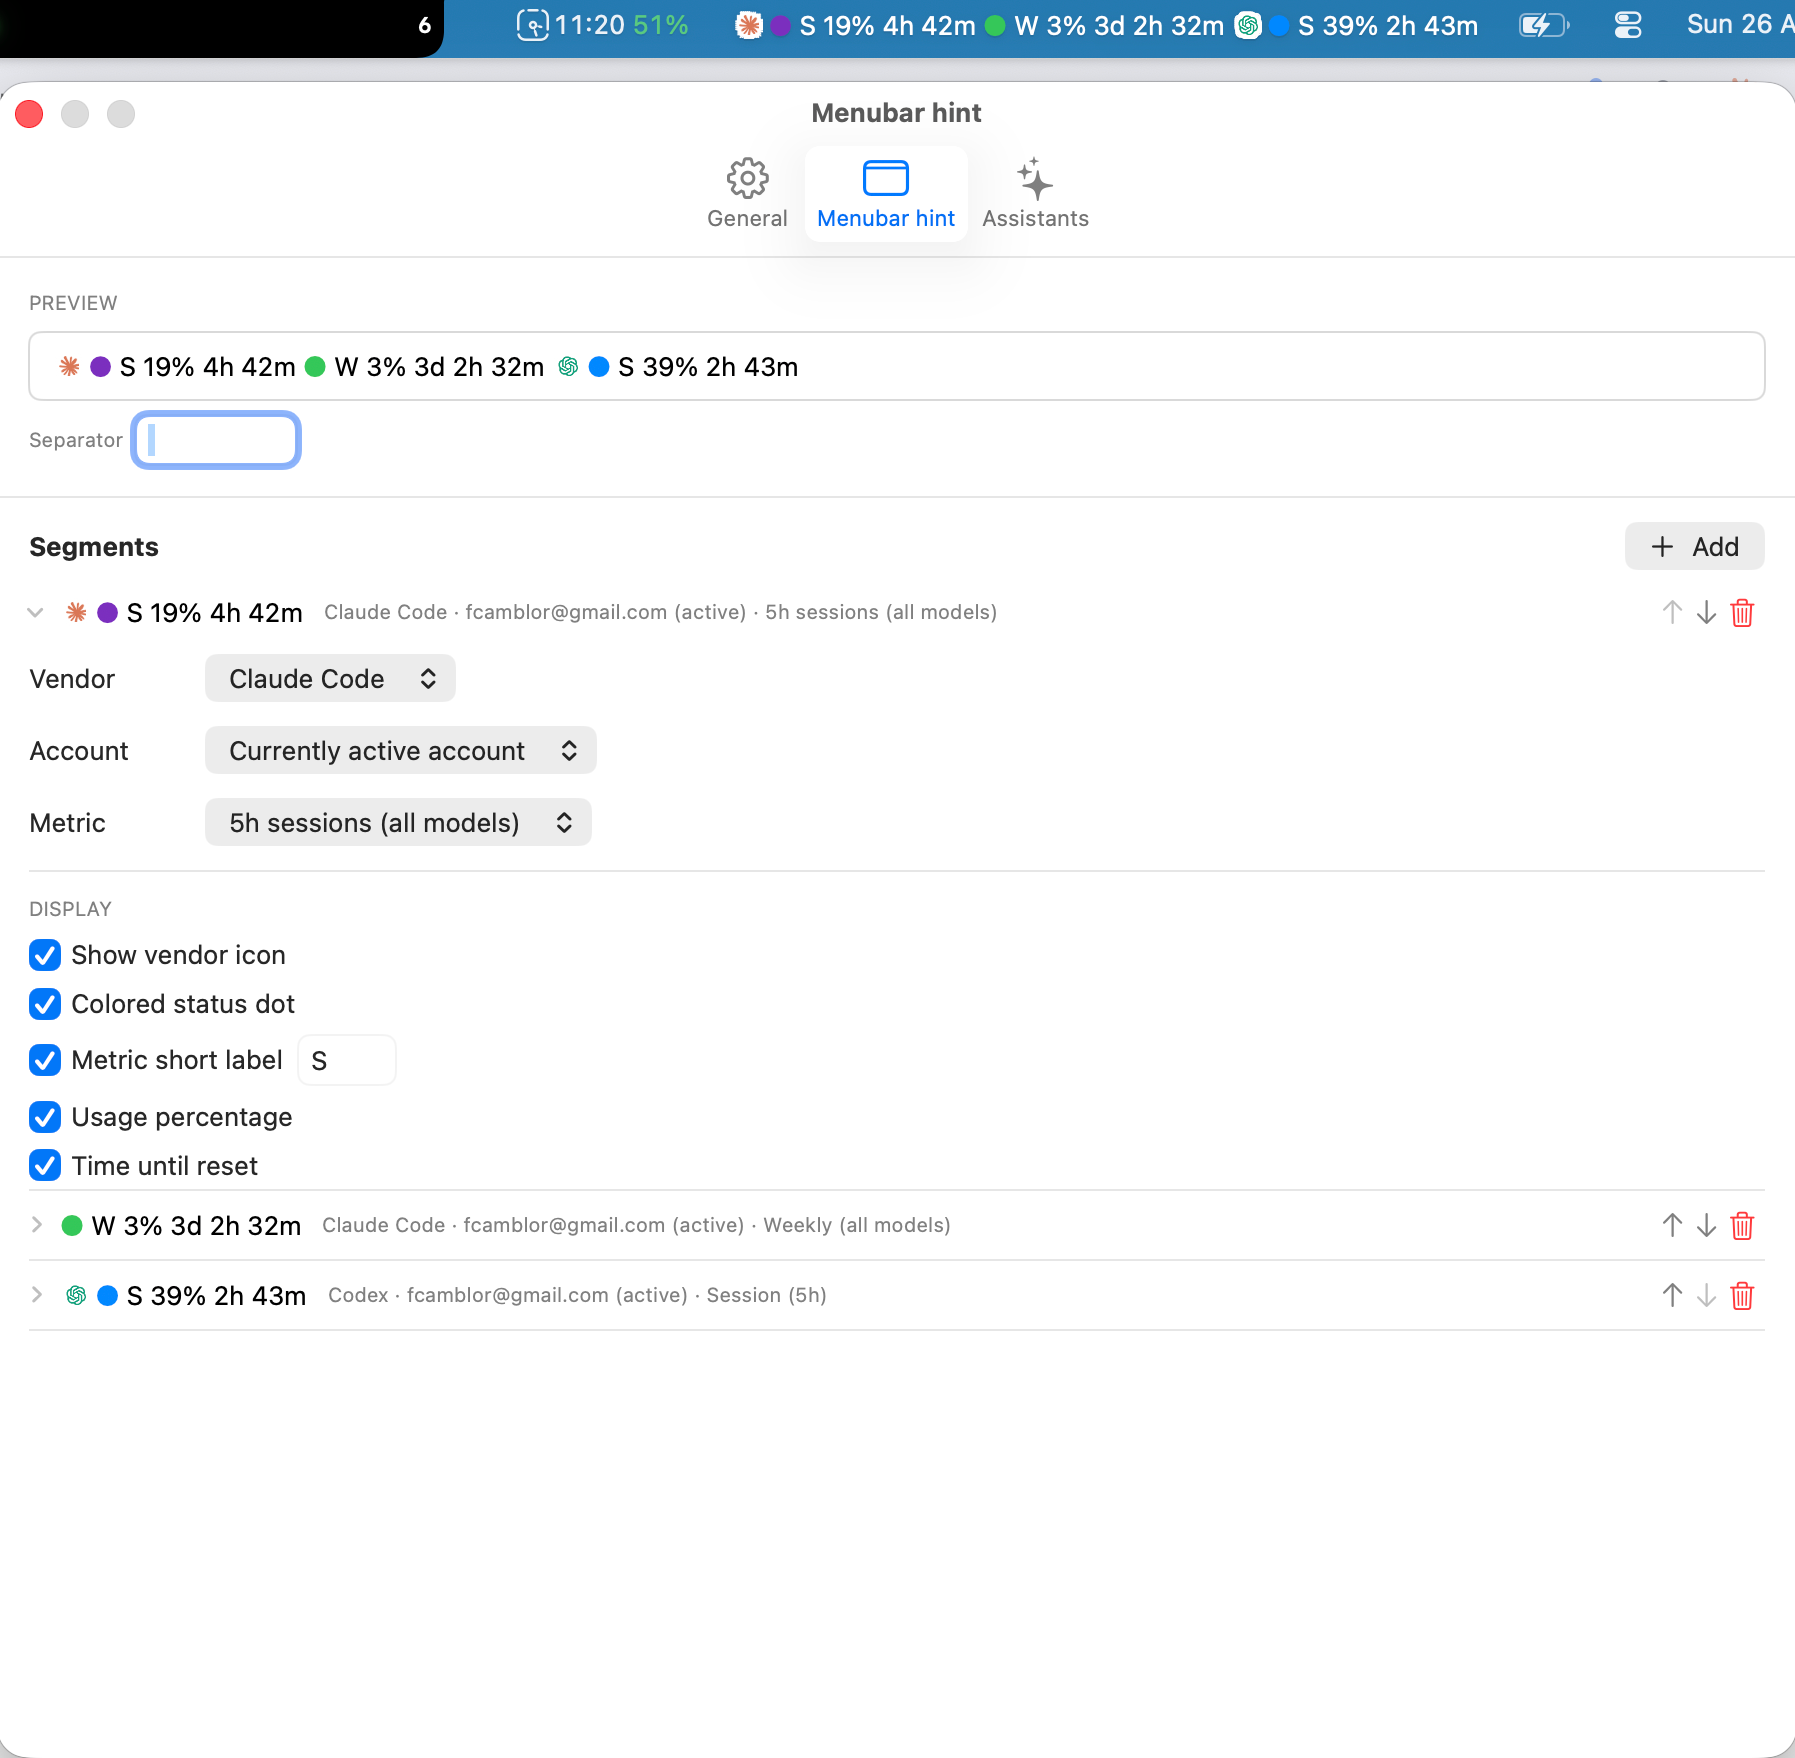
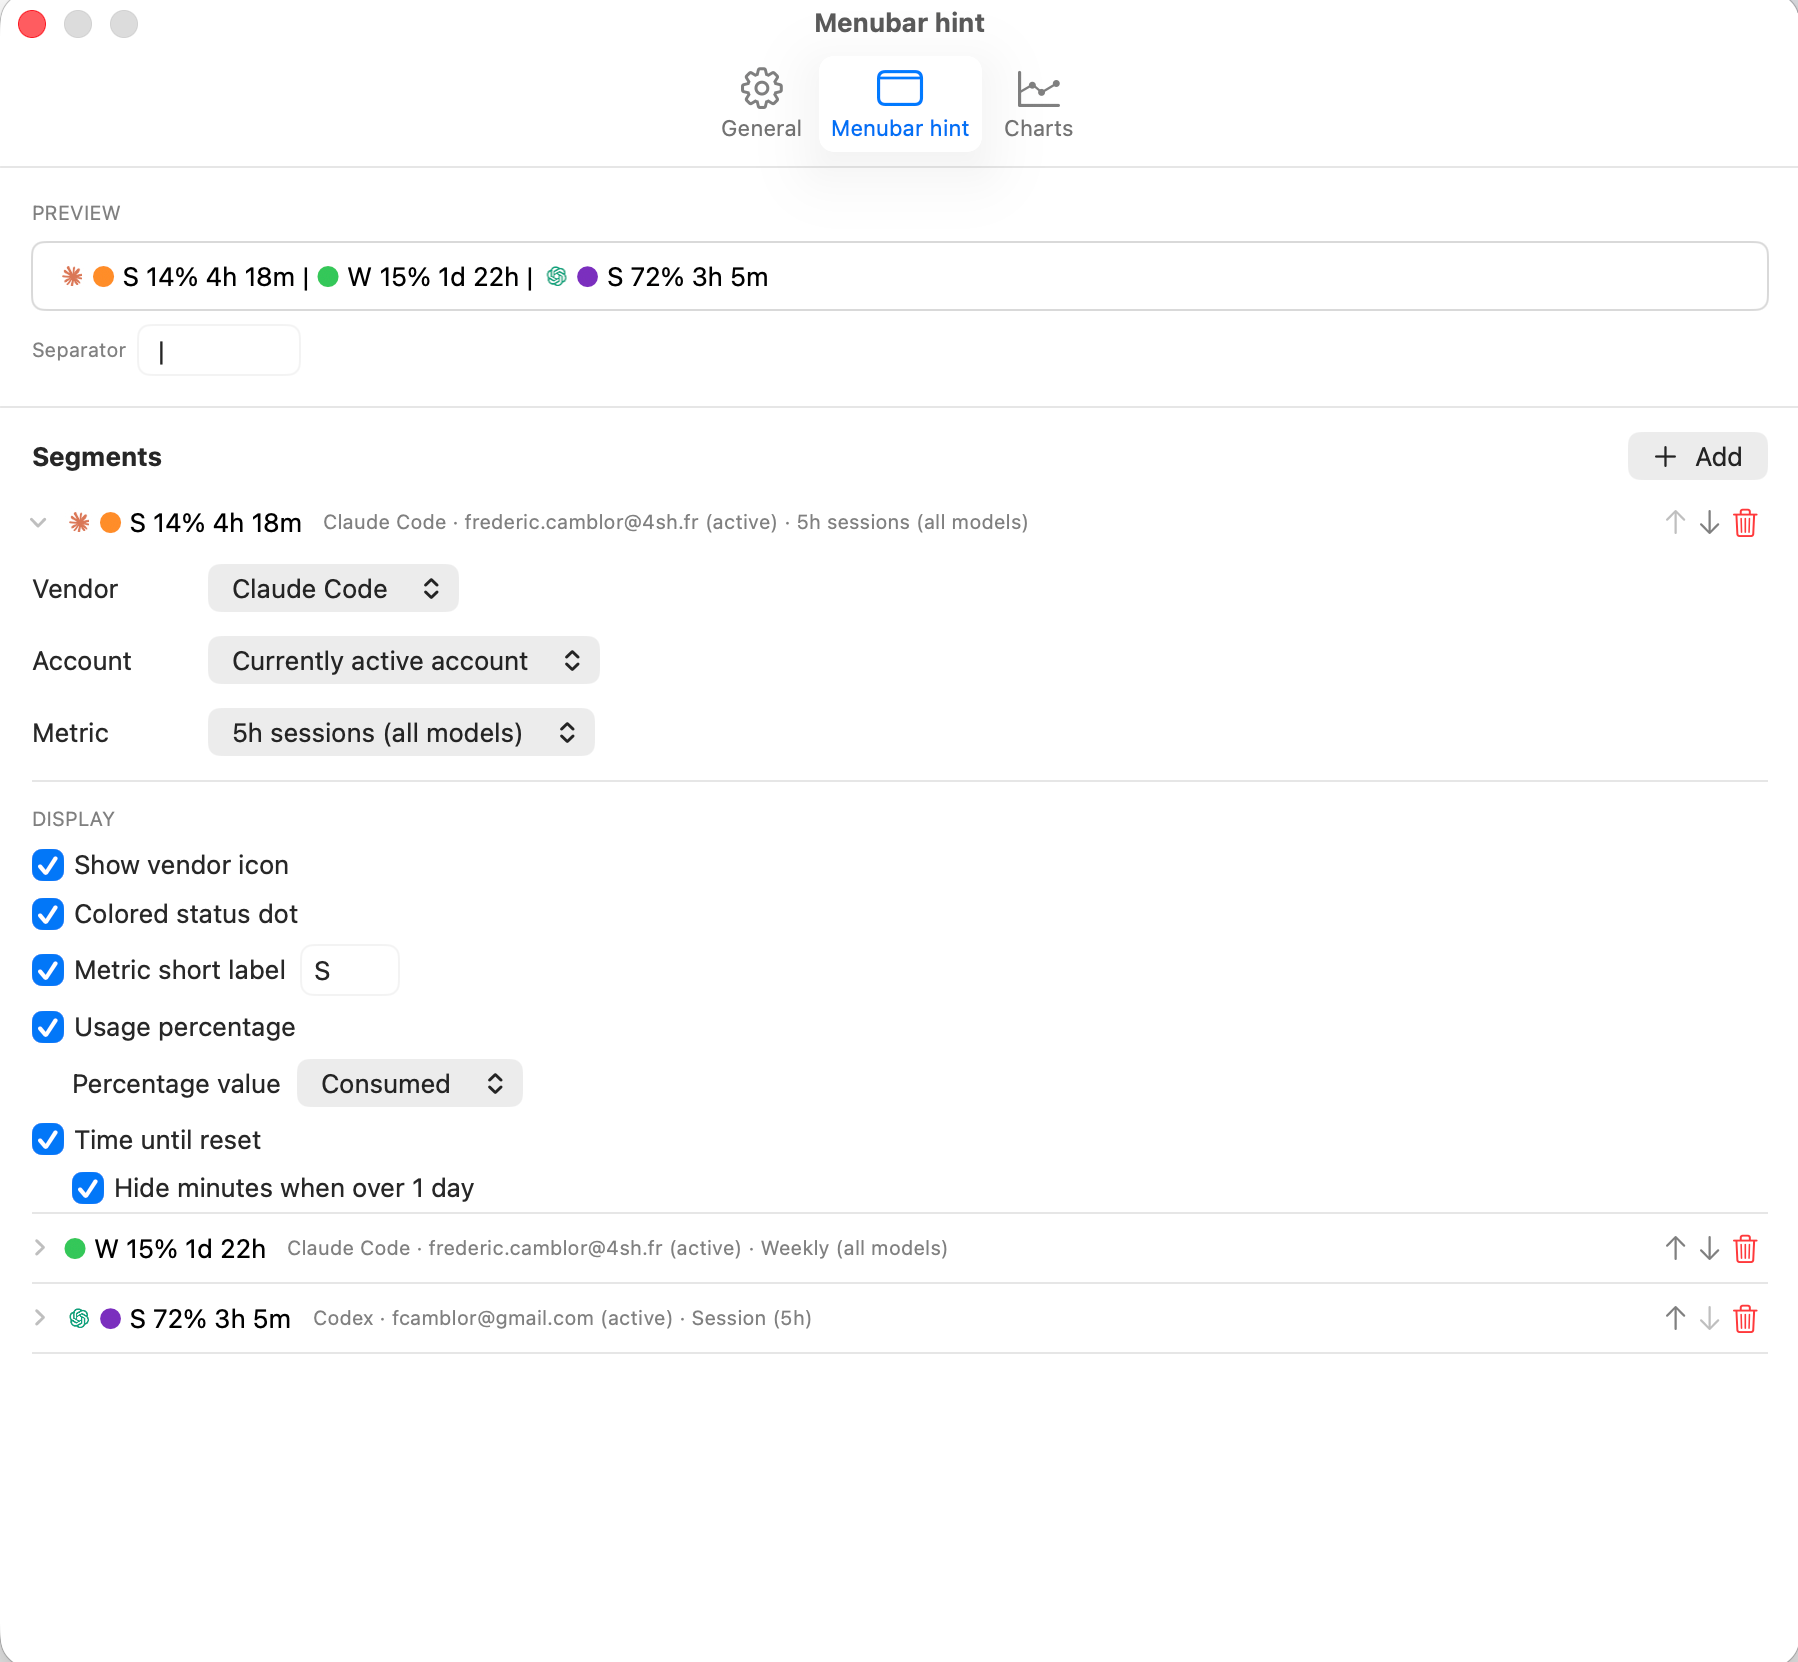
docs(readme): document display mode options for menu bar segments
The screenshot and description were outdated after the display modes
feature shipped — neither mentioned the Consumed/Remaining toggle for
the usage percentage nor the "hide minutes when over 1 day" option for
the time-until-reset segment.

Entire-Checkpoint: ef0691ee2a11

diff --git a/README.md b/README.md
@@ -43,7 +43,7 @@ Each usage bar changes color as consumption approaches the limit, making it easy
 
 ### Customizable menu bar display
 
-Configure which segments appear in the menu bar label — vendor icon, colored status dot, metric short label, usage percentage, and time until reset — and choose the separator between them.
+Configure which segments appear in the menu bar label — vendor icon, colored status dot, metric short label, usage percentage, and time until reset — and choose the separator between them. Each segment has its own display options: the usage percentage can show either consumed or remaining value, and the time-until-reset label can hide the minutes component when the remaining time exceeds one day.
 
 <img src="docs/assets/screenshots/menubar_customization.png" alt="Menu bar customization settings" height="400">
 
